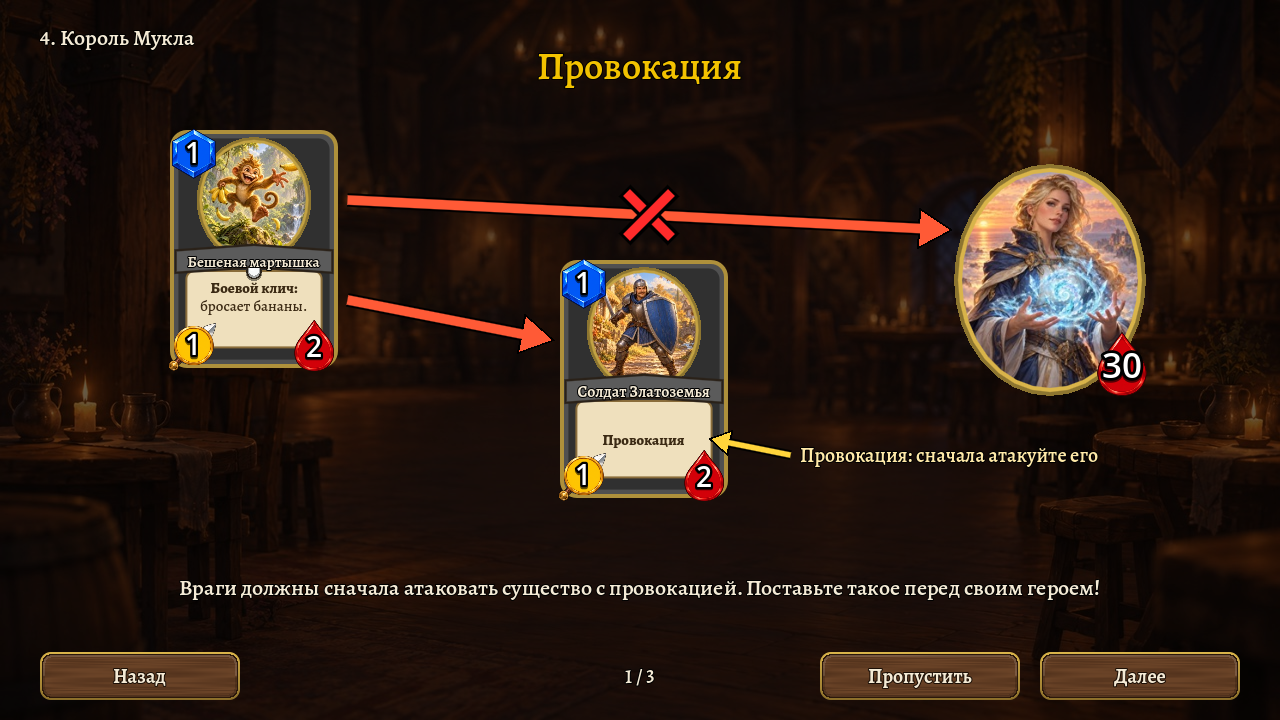
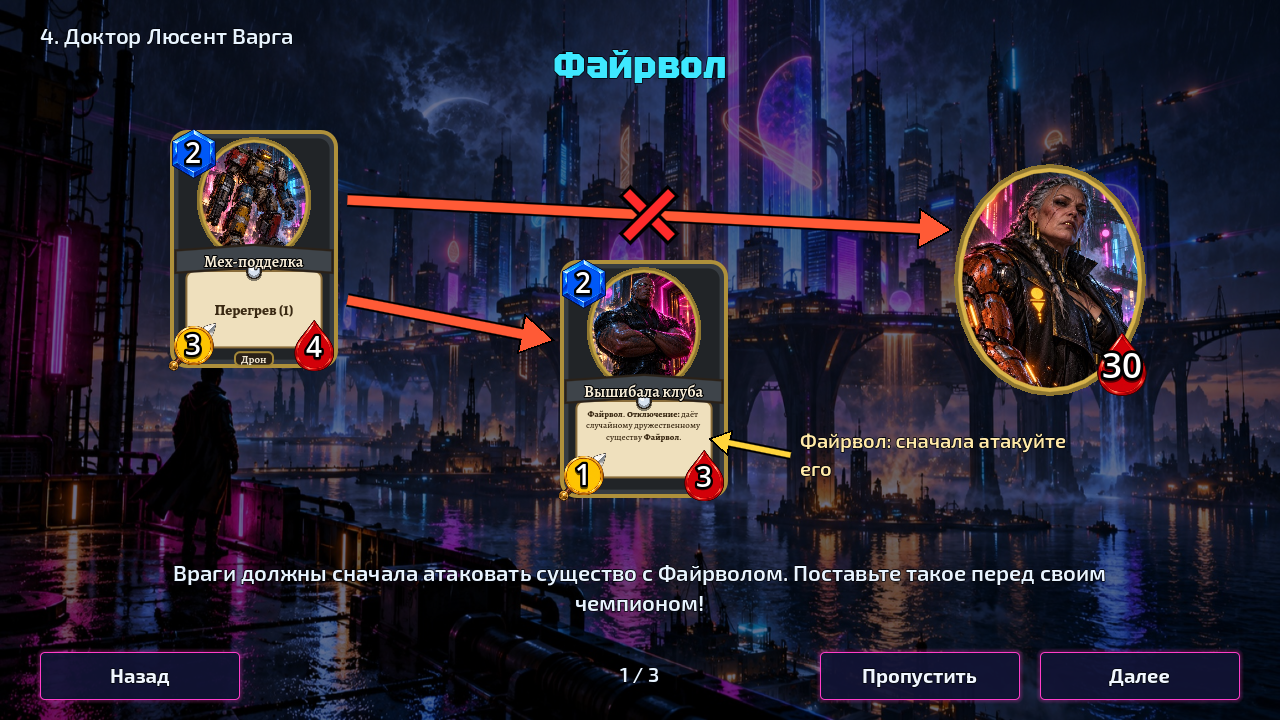
Site screenshots: Neonfall's tutorial (mission list, an intro page) in place of Classic's, en and ru; gallery caption
Claude-Session: https://claude.ai/code/session_01EiXgp8TjHJ4tufzuCLnDgH

diff --git a/site/i18n/ru.js b/site/i18n/ru.js
@@ -27,7 +27,7 @@
     "shot.tracker.tab": "Дектрекер", "shot.tracker.cap": "Дектрекер: ваша колода с шансом вытянуть каждую карту и что сыграл соперник",
     "shot.history.tab": "История", "shot.history.cap": "История по ходам: наведите на ход, чтобы увидеть, что он сделал",
     "shot.collection.tab": "Коллекция", "shot.collection.cap": "Коллекция и колоды на одном экране",
-    "shot.tutorial.tab": "Обучение", "shot.tutorial.cap": "Обучение: шесть миссий, как в оригинале",
+    "shot.tutorial.tab": "Обучение", "shot.tutorial.cap": "Обучение Neonfall: шесть миссий, от первой карты до Протоколов",
     "shot.online.tab": "Сеть", "shot.online.cap": "Сетевая игра: обычная или Арена, затем создайте игру или присоединитесь",
     "shot.menu.tab": "Меню", "shot.menu.cap": "Главное меню",
     "shot.settings.tab": "Настройки", "shot.settings.cap": "Настройки: язык, имя, музыка и звуки, арты карт, рубашка, скорость анимации, инструменты отладки",

diff --git a/site/i18n/fr.js b/site/i18n/fr.js
@@ -27,7 +27,7 @@
     "shot.tracker.tab": "Suivi de deck", "shot.tracker.cap": "Suivi de deck : votre deck avec la chance de piocher chaque carte, et ce que l'adversaire a joué",
     "shot.history.tab": "Historique", "shot.history.cap": "Historique par tours : survolez une action pour voir ce qu'elle a fait",
     "shot.collection.tab": "Collection", "shot.collection.cap": "Collection et decks sur un seul écran",
-    "shot.tutorial.tab": "Tutoriel", "shot.tutorial.cap": "Tutoriel : six missions, comme l'original",
+    "shot.tutorial.tab": "Tutoriel", "shot.tutorial.cap": "Le tutoriel de Neonfall : six missions, de la première carte aux Protocoles",
     "shot.online.tab": "En ligne", "shot.online.cap": "Jeu en ligne : partie normale ou Arène, puis créer une partie ou en rejoindre une",
     "shot.menu.tab": "Menu", "shot.menu.cap": "Menu principal",
     "shot.settings.tab": "Paramètres", "shot.settings.cap": "Paramètres : langue, nom, musique et sons, illustrations, dos de carte, vitesse d'animation, outils de débogage",

diff --git a/site/i18n/es.js b/site/i18n/es.js
@@ -27,7 +27,7 @@
     "shot.tracker.tab": "Rastreador", "shot.tracker.cap": "Rastreador de mazo: tu mazo con la probabilidad de robar cada carta y lo que jugó el rival",
     "shot.history.tab": "Historial", "shot.history.cap": "Historial por turnos: pasa el ratón por una acción para ver qué hizo",
     "shot.collection.tab": "Colección", "shot.collection.cap": "Colección y mazos en una sola pantalla",
-    "shot.tutorial.tab": "Tutorial", "shot.tutorial.cap": "Tutorial: seis misiones, como el original",
+    "shot.tutorial.tab": "Tutorial", "shot.tutorial.cap": "El tutorial de Neonfall: seis misiones, de la primera carta a los Protocolos",
     "shot.online.tab": "En línea", "shot.online.cap": "Juego en línea: partida normal o Arena, luego crea una partida o únete a una",
     "shot.menu.tab": "Menú", "shot.menu.cap": "Menú principal",
     "shot.settings.tab": "Ajustes", "shot.settings.cap": "Ajustes: idioma, nombre, música y sonidos, ilustraciones, reverso, velocidad de animación, herramientas de depuración",

diff --git a/site/i18n/it.js b/site/i18n/it.js
@@ -27,7 +27,7 @@
     "shot.tracker.tab": "Tracker", "shot.tracker.cap": "Tracker del mazzo: il tuo mazzo con la probabilità di pescare ogni carta e cosa ha giocato l'avversario",
     "shot.history.tab": "Cronologia", "shot.history.cap": "Cronologia per turni: passa su un'azione per vedere cosa ha fatto",
     "shot.collection.tab": "Collezione", "shot.collection.cap": "Collezione e mazzi in un'unica schermata",
-    "shot.tutorial.tab": "Tutorial", "shot.tutorial.cap": "Tutorial: sei missioni come l'originale",
+    "shot.tutorial.tab": "Tutorial", "shot.tutorial.cap": "Il tutorial di Neonfall: sei missioni, dalla prima carta ai Protocolli",
     "shot.online.tab": "Online", "shot.online.cap": "Gioco online: partita normale o Arena, poi crea una partita o unisciti",
     "shot.menu.tab": "Menu", "shot.menu.cap": "Menu principale",
     "shot.settings.tab": "Impostazioni", "shot.settings.cap": "Impostazioni: lingua, nome, musica e suoni, illustrazioni, dorso, velocità delle animazioni, strumenti di debug",

diff --git a/site/i18n/de.js b/site/i18n/de.js
@@ -27,7 +27,7 @@
     "shot.tracker.tab": "Decktracker", "shot.tracker.cap": "Decktracker: dein Deck mit der Ziehchance jeder Karte und was der Gegner spielte",
     "shot.history.tab": "Verlauf", "shot.history.cap": "Verlauf nach Zügen: zeig auf einen Zug, um zu sehen, was er bewirkte",
     "shot.collection.tab": "Sammlung", "shot.collection.cap": "Sammlung und Decks auf einem Bildschirm",
-    "shot.tutorial.tab": "Tutorial", "shot.tutorial.cap": "Tutorial: sechs Missionen wie im Original",
+    "shot.tutorial.tab": "Tutorial", "shot.tutorial.cap": "Das Tutorial von Neonfall: sechs Missionen, von der ersten Karte bis zu den Protokollen",
     "shot.online.tab": "Online", "shot.online.cap": "Online-Spiel: normal oder Arena, dann ein Spiel erstellen oder beitreten",
     "shot.menu.tab": "Menü", "shot.menu.cap": "Hauptmenü",
     "shot.settings.tab": "Einstellungen", "shot.settings.cap": "Einstellungen: Sprache, Name, Musik und Klänge, Kartenbilder, Kartenrücken, Animationstempo, Debug-Werkzeuge",

diff --git a/site/i18n/pt_BR.js b/site/i18n/pt_BR.js
@@ -27,7 +27,7 @@
     "shot.tracker.tab": "Rastreador", "shot.tracker.cap": "Rastreador de deck: seu deck com a chance de comprar cada carta e o que o oponente jogou",
     "shot.history.tab": "Histórico", "shot.history.cap": "Histórico por turnos: passe o mouse numa ação para ver o que ela fez",
     "shot.collection.tab": "Coleção", "shot.collection.cap": "Coleção e decks numa só tela",
-    "shot.tutorial.tab": "Tutorial", "shot.tutorial.cap": "Tutorial: seis missões, como o original",
+    "shot.tutorial.tab": "Tutorial", "shot.tutorial.cap": "O tutorial de Neonfall: seis missões, do primeiro card aos Protocolos",
     "shot.online.tab": "Online", "shot.online.cap": "Jogo online: normal ou Arena, depois crie um jogo ou entre num",
     "shot.menu.tab": "Menu", "shot.menu.cap": "Menu principal",
     "shot.settings.tab": "Configurações", "shot.settings.cap": "Configurações: idioma, nome, música e sons, artes, verso, velocidade de animação, ferramentas de depuração",

diff --git a/site/i18n/pl.js b/site/i18n/pl.js
@@ -27,7 +27,7 @@
     "shot.tracker.tab": "Śledzenie", "shot.tracker.cap": "Śledzenie talii: twoja talia z szansą dobrania każdej karty i to, co zagrał przeciwnik",
     "shot.history.tab": "Historia", "shot.history.cap": "Historia według tur: najedź na ruch, by zobaczyć, co zrobił",
     "shot.collection.tab": "Kolekcja", "shot.collection.cap": "Kolekcja i talie na jednym ekranie",
-    "shot.tutorial.tab": "Samouczek", "shot.tutorial.cap": "Samouczek: sześć misji jak w oryginale",
+    "shot.tutorial.tab": "Samouczek", "shot.tutorial.cap": "Samouczek Neonfall: sześć misji, od pierwszej karty po Protokoły",
     "shot.online.tab": "Sieć", "shot.online.cap": "Gra sieciowa: zwykła lub Arena, potem utwórz grę albo dołącz",
     "shot.menu.tab": "Menu", "shot.menu.cap": "Menu główne",
     "shot.settings.tab": "Ustawienia", "shot.settings.cap": "Ustawienia: język, imię, muzyka i dźwięki, grafiki kart, rewers, szybkość animacji, narzędzia debugowania",

diff --git a/site/i18n/en.js b/site/i18n/en.js
@@ -27,7 +27,7 @@
     "shot.tracker.tab": "Deck tracker", "shot.tracker.cap": "Deck tracker: your deck with the chance to draw each card, and what the opponent played",
     "shot.history.tab": "History", "shot.history.cap": "History by turns: hover a move to see what it did",
     "shot.collection.tab": "Collection", "shot.collection.cap": "Collection and decks on one screen",
-    "shot.tutorial.tab": "Tutorial", "shot.tutorial.cap": "Tutorial: six missions, like the original",
+    "shot.tutorial.tab": "Tutorial", "shot.tutorial.cap": "Neonfall's tutorial: six missions, from the first card to Protocols",
     "shot.online.tab": "Online", "shot.online.cap": "Online play: a normal game or the Arena, then create a game or join one",
     "shot.menu.tab": "Menu", "shot.menu.cap": "Main menu",
     "shot.settings.tab": "Settings", "shot.settings.cap": "Settings: language, name, music and sounds, card art, card back, animation speed, debug tools",

diff --git a/site/main.js b/site/main.js
@@ -4,7 +4,7 @@
 const LANGS = {en: "English", ru: "Русский", de: "Deutsch", fr: "Français", es: "Español", pt_BR: "Português (Brasil)", it: "Italiano", pl: "Polski"};
 const TEXT = window.TEXT;
 // Neonfall's screens first (the default game), then Classic's
-const SHOTS = ["match", "games", "history", "tracker", "collection", "arena", "rules", "lobby", "result", "online", "debug", "settings", "menu", "classic", "tutorial"];
+const SHOTS = ["match", "games", "history", "tracker", "collection", "arena", "rules", "lobby", "result", "online", "debug", "settings", "menu", "tutorial", "classic"];
 const NAME = window.SITE_NAME || {name: "Classic HS", full_name: "Classic Heroes Showdown"};  // site/name.js
 const $ = (s) => document.querySelector(s);
 
